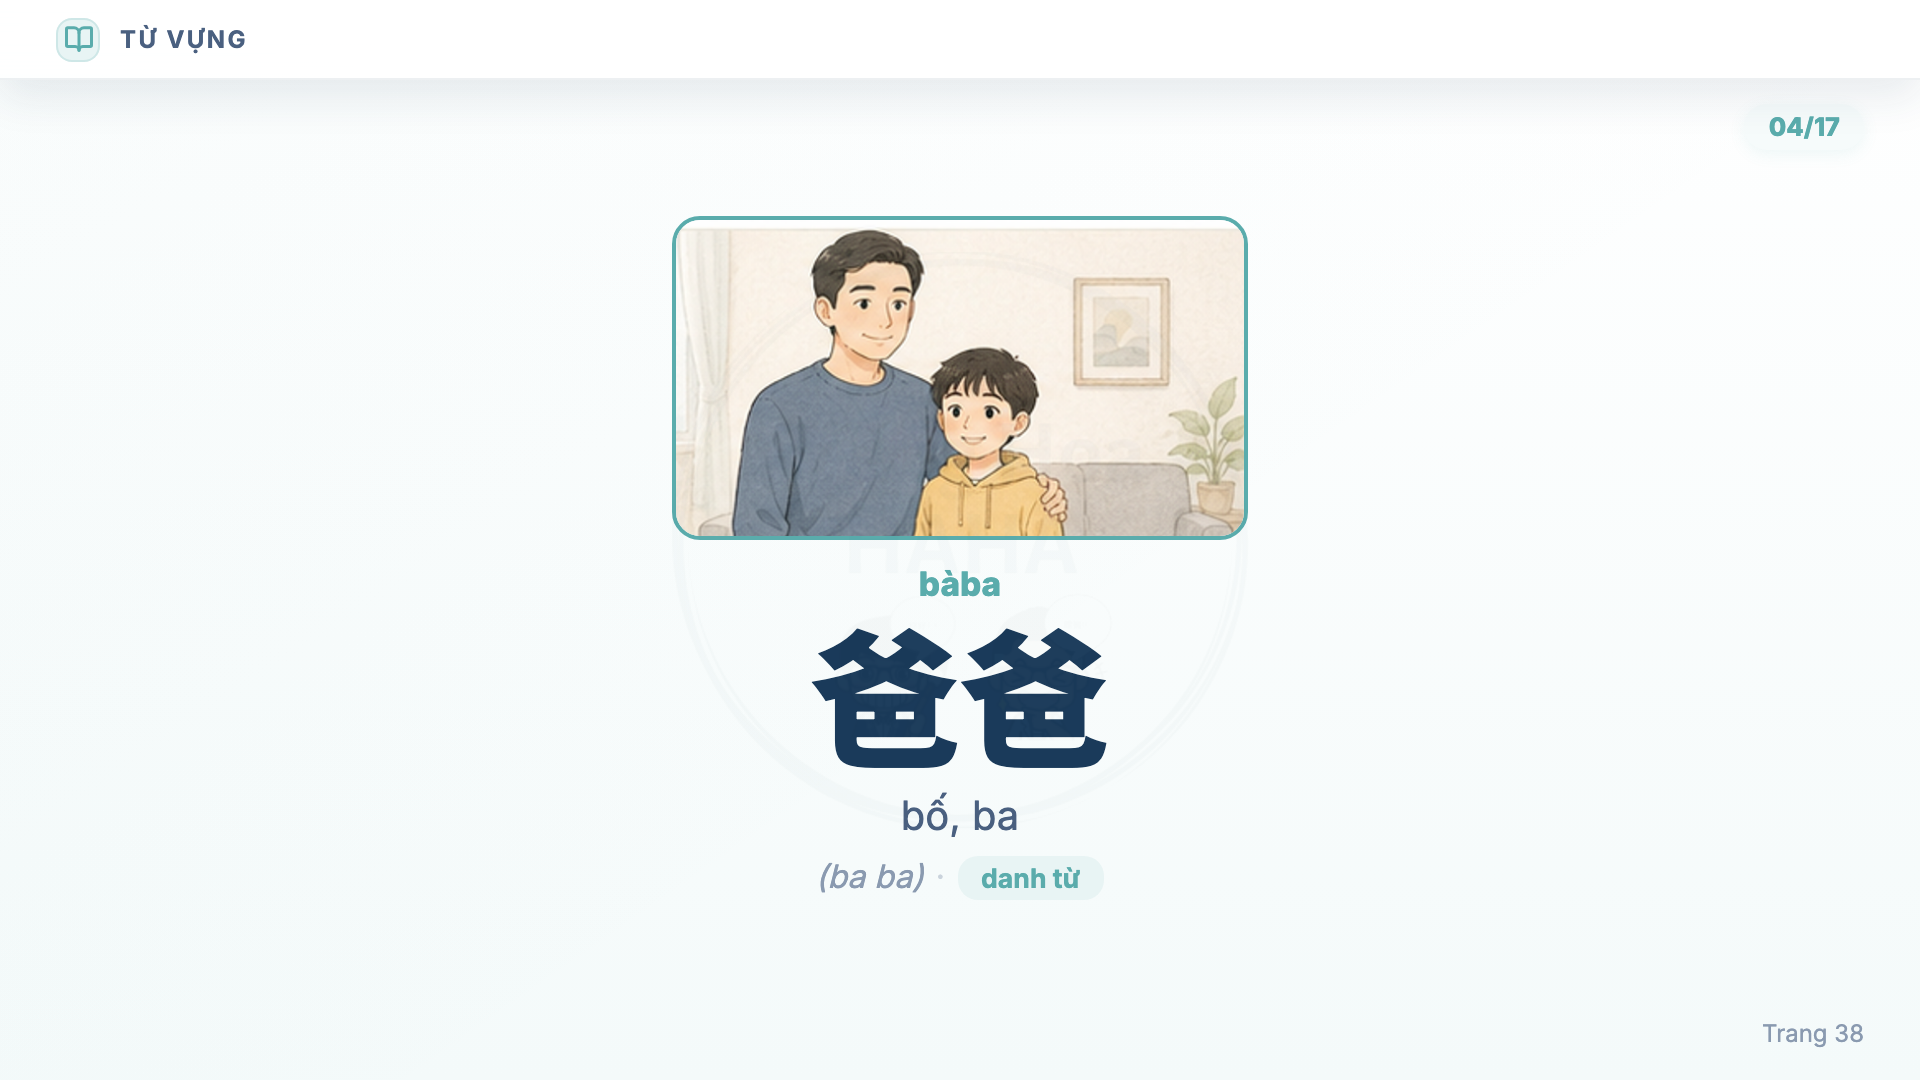
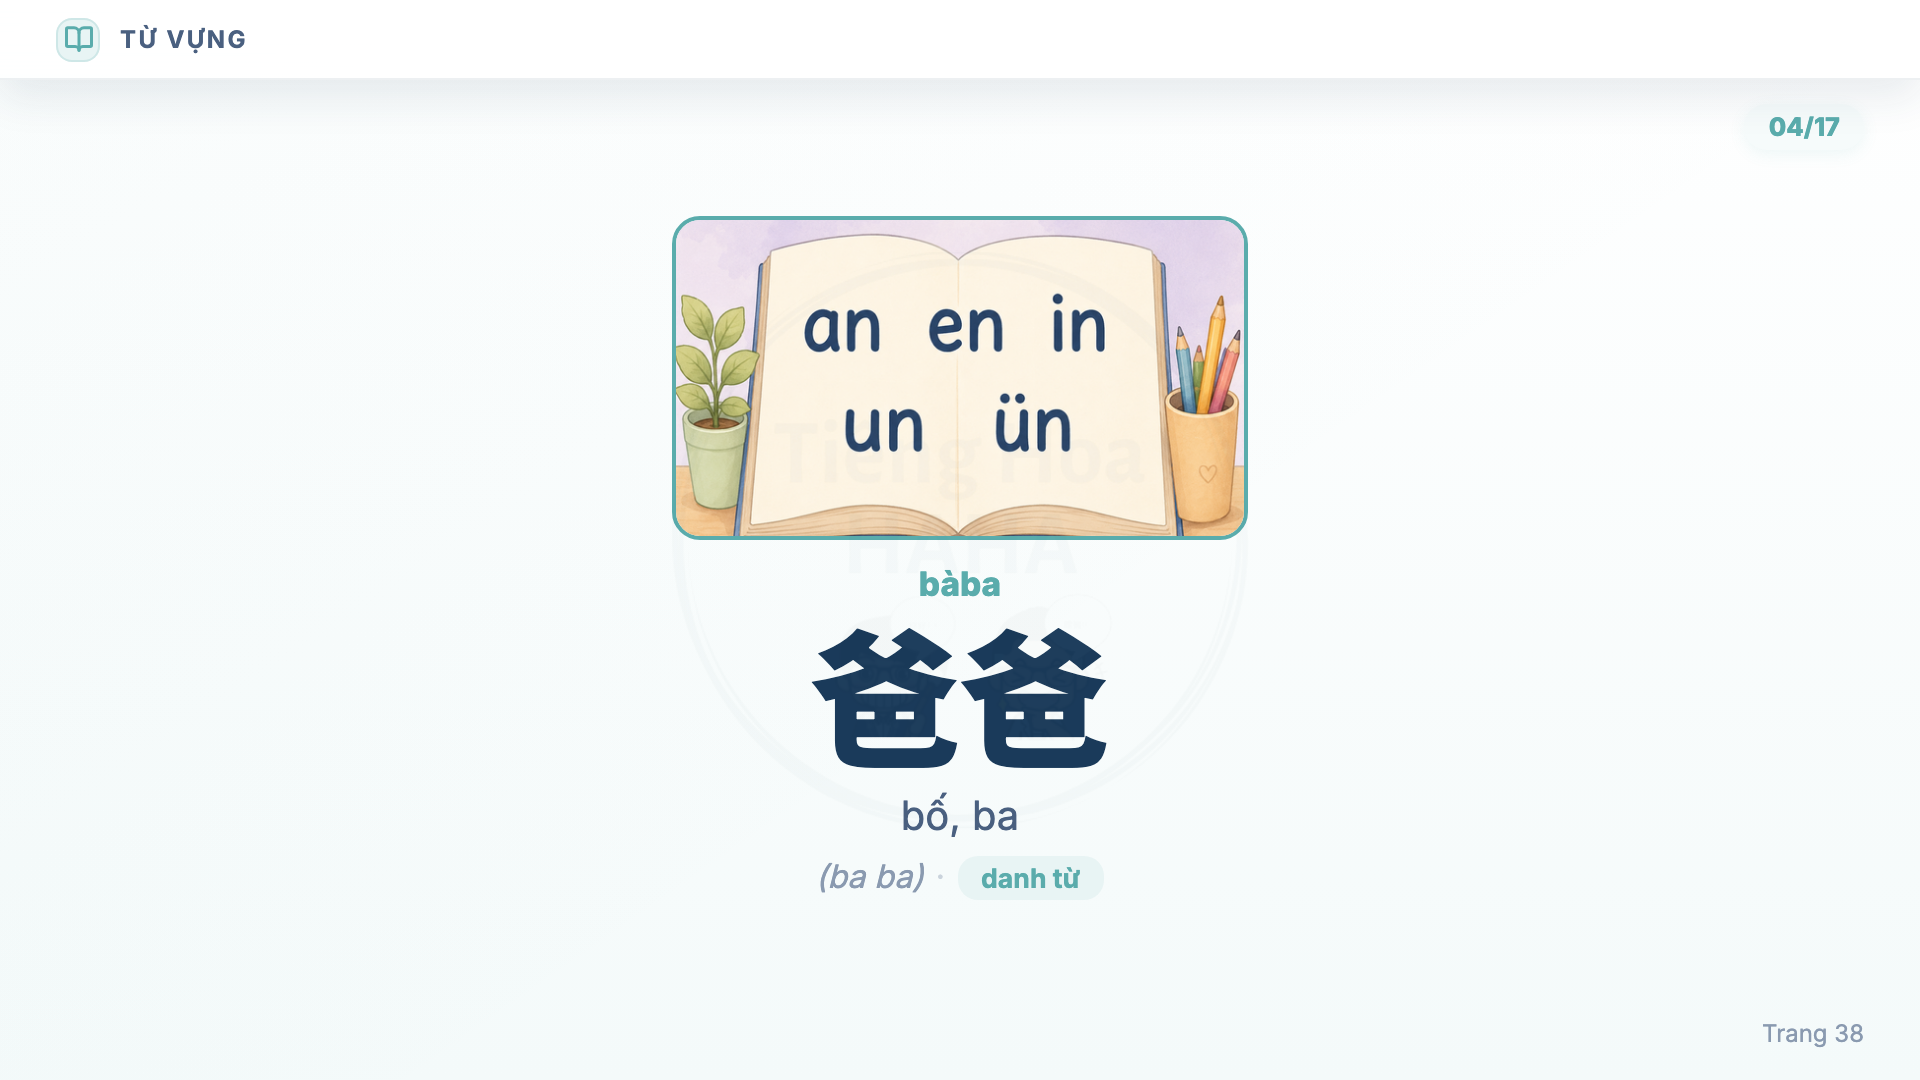
updated pinyin lesson 4 and 5 images and slide layout

Changed region(s): [[0.3438, 0.1833, 0.6562, 0.5194]]

diff --git a/output/pinyin/pinyin-05/slides/index.html b/output/pinyin/pinyin-05/slides/index.html
@@ -40,24 +40,24 @@ body.presenting .thumb-number,body.presenting .thumb-name{color:rgba(255,255,255
 </style>
 </head>
 <body>
-<div class="header"><h1>Pinyin Bài 5</h1><div class="subtitle">54 slides · Press <strong>F</strong> for presentation mode</div></div>
+<div class="header"><h1>Pinyin Bài 5</h1><div class="subtitle">56 slides · Press <strong>F</strong> for presentation mode</div></div>
 <aside class="thumb-sidebar" id="thumbSidebar" aria-label="Danh sách slide">
-  <div class="thumb-head"><div class="thumb-title">Mục lục</div><div class="thumb-total">54</div></div>
+  <div class="thumb-head"><div class="thumb-title">Mục lục</div><div class="thumb-total">56</div></div>
   <div class="thumb-list" id="thumbList"></div>
 </aside>
 <div class="stage" id="stage"><div class="slide-surface" id="slideSurface"><iframe id="slideFrame" src="01-cover.html"></iframe><canvas id="drawCanvas"></canvas><a class="stage-video-link" id="stageVideoLink" href="#" target="_blank" rel="noopener noreferrer" aria-label="Mở video viết chữ"><svg viewBox="0 0 24 24" aria-hidden="true"><path d="M8 5v14l11-7z"></path></svg></a></div></div>
 <div class="controls" id="controls">
-  <button class="btn" onclick="prev()">← Prev</button><span class="counter" id="counter">1 / 54</span><button class="btn" onclick="next()">Next →</button>
+  <button class="btn" onclick="prev()">← Prev</button><span class="counter" id="counter">1 / 56</span><button class="btn" onclick="next()">Next →</button>
   <div class="separator"></div><button class="btn secondary" onclick="undo()">↩ Undo</button><span class="tool-group"><button class="btn secondary" id="drawBtn" onclick="toggleToolMenu('drawMenu')"><span id="drawLabel">Draw</span> ▾</button><span class="tool-menu" id="drawMenu"><button class="btn" id="penBtn" onclick="togglePen()">Pen</button><button class="btn" id="highBtn" onclick="toggleHighlighter()">Highlighter</button></span></span>
   <span class="tool-group"><button class="btn secondary" id="colorBtn" onclick="toggleToolMenu('colorMenu')"><span class="ink-chip" id="inkChip" style="background:#1A3A5A"></span> Ink ▾</button><span class="tool-menu color-menu" id="colorMenu"><button class="color-option swatch" data-color="#E04040" onclick="pickColor(this)"><span class="color-dot" style="background:#E04040"></span>Đỏ</button><button class="color-option swatch selected" data-color="#1A3A5A" onclick="pickColor(this)"><span class="color-dot" style="background:#1A3A5A"></span>Xanh đậm</button><button class="color-option swatch" data-color="#5AACAC" onclick="pickColor(this)"><span class="color-dot" style="background:#5AACAC"></span>Teal</button><button class="color-option swatch" data-color="#F5A623" onclick="pickColor(this)"><span class="color-dot" style="background:#F5A623"></span>Vàng</button></span></span>
   <span class="tool-group"><button class="btn secondary" id="shapeBtn" onclick="toggleToolMenu('shapeMenu')"><span id="shapeLabel">Shape</span> ▾</button><span class="tool-menu" id="shapeMenu"><button class="btn" id="lineBtn" onclick="toggleShape('line')">Line</button><button class="btn" id="circleBtn" onclick="toggleShape('circle')">Circle</button><button class="btn" id="rectBtn" onclick="toggleShape('rect')">Box</button></span></span><span class="eraser-wrap"><button class="btn secondary" id="eraseBtn" onclick="toggleEraserMenu('eraserMenu')">Eraser ▾</button><span class="eraser-menu" id="eraserMenu"><button class="btn" id="pixelEraserBtn" onclick="setEraser('pixel')">Pixel</button><button class="btn" id="objectEraserBtn" onclick="setEraser('object')">Object</button></span></span><span class="tool-group"><button class="btn secondary" id="textBtn" onclick="toggleToolMenu('textMenu')">Text ▾</button><span class="tool-menu text-menu" id="textMenu"><button class="btn" id="textAddBtn" onclick="toggleText()">Add text</button><button class="text-color active" style="background:#000" data-text-color="#000000" onclick="pickTextColor(this)" title="Black"></button><button class="text-color" style="background:#1A5BFF" data-text-color="#1A5BFF" onclick="pickTextColor(this)" title="Blue"></button><button class="text-color" style="background:#E04040" data-text-color="#E04040" onclick="pickTextColor(this)" title="Red"></button><select class="text-size" onchange="setTextSize(this.value)" title="Text size"><option value="20">20</option><option value="24" selected>24</option><option value="30">30</option><option value="36">36</option><option value="44">44</option><option value="56">56</option></select></span></span><button class="btn danger" onclick="clearSlide()">Clear</button>
   <div class="separator"></div><button class="btn download" onclick="exportPDF()">📥 PDF</button><button class="btn" onclick="enterPresent()">▶ Present</button>
 </div>
 <div class="float-toolbar">
-  <button class="btn" onclick="prev()">←</button><span class="counter" id="counterFloat">1 / 54</span><button class="btn" onclick="next()">→</button>
+  <button class="btn" onclick="prev()">←</button><span class="counter" id="counterFloat">1 / 56</span><button class="btn" onclick="next()">→</button>
   <div class="separator"></div><button class="btn" onclick="undo()">↩</button><span class="tool-group"><button class="btn" id="drawBtnFloat" onclick="toggleToolMenu('drawMenuFloat')"><span id="drawLabelFloat">Draw</span> ▾</button><span class="tool-menu" id="drawMenuFloat"><button class="btn" id="penBtnFloat" onclick="togglePen()">Pen</button><button class="btn" id="highBtnFloat" onclick="toggleHighlighter()">Highlighter</button></span></span><span class="tool-group"><button class="btn" id="colorBtnFloat" onclick="toggleToolMenu('colorMenuFloat')"><span class="ink-chip" id="inkChipFloat" style="background:#1A3A5A"></span> Ink ▾</button><span class="tool-menu color-menu" id="colorMenuFloat"><button class="color-option swatch" data-color="#E04040" onclick="pickColor(this)"><span class="color-dot" style="background:#E04040"></span>Đỏ</button><button class="color-option swatch selected" data-color="#1A3A5A" onclick="pickColor(this)"><span class="color-dot" style="background:#1A3A5A"></span>Xanh đậm</button><button class="color-option swatch" data-color="#5AACAC" onclick="pickColor(this)"><span class="color-dot" style="background:#5AACAC"></span>Teal</button><button class="color-option swatch" data-color="#F5A623" onclick="pickColor(this)"><span class="color-dot" style="background:#F5A623"></span>Vàng</button></span></span><span class="tool-group"><button class="btn" id="shapeBtnFloat" onclick="toggleToolMenu('shapeMenuFloat')"><span id="shapeLabelFloat">Shape</span> ▾</button><span class="tool-menu" id="shapeMenuFloat"><button class="btn" id="lineBtnFloat" onclick="toggleShape('line')">Line</button><button class="btn" id="circleBtnFloat" onclick="toggleShape('circle')">Circle</button><button class="btn" id="rectBtnFloat" onclick="toggleShape('rect')">Box</button></span></span><span class="eraser-wrap"><button class="btn" id="eraseBtnFloat" onclick="toggleEraserMenu('eraserMenuFloat')">Eraser ▾</button><span class="eraser-menu" id="eraserMenuFloat"><button class="btn" id="pixelEraserBtnFloat" onclick="setEraser('pixel')">Pixel</button><button class="btn" id="objectEraserBtnFloat" onclick="setEraser('object')">Object</button></span></span><span class="tool-group"><button class="btn" id="textBtnFloat" onclick="toggleToolMenu('textMenuFloat')">Text ▾</button><span class="tool-menu text-menu" id="textMenuFloat"><button class="btn" id="textAddBtnFloat" onclick="toggleText()">Add text</button><button class="text-color active" style="background:#000" data-text-color="#000000" onclick="pickTextColor(this)" title="Black"></button><button class="text-color" style="background:#1A5BFF" data-text-color="#1A5BFF" onclick="pickTextColor(this)" title="Blue"></button><button class="text-color" style="background:#E04040" data-text-color="#E04040" onclick="pickTextColor(this)" title="Red"></button><select class="text-size" onchange="setTextSize(this.value)" title="Text size"><option value="20">20</option><option value="24" selected>24</option><option value="30">30</option><option value="36">36</option><option value="44">44</option><option value="56">56</option></select></span></span><button class="btn danger" onclick="clearSlide()">✕</button><button class="btn download" onclick="exportPDF()">PDF</button><button class="btn secondary" onclick="exitPresent()">Esc</button>
 </div>
-<div class="export-overlay" id="exportOverlay"><div class="export-box"><h3 id="exportTitle">Exporting PDF...</h3><p id="exportStatus">Rendering slide 1 / 54</p><div class="export-progress"><div class="export-progress-bar" id="exportBar"></div></div><p style="margin-top:10px;font-size:11px;color:#B0BEC5">Rendering live from slides — always up to date</p><button class="btn secondary export-close" id="exportClose" onclick="hideExportOverlay()">Close</button></div></div>
+<div class="export-overlay" id="exportOverlay"><div class="export-box"><h3 id="exportTitle">Exporting PDF...</h3><p id="exportStatus">Rendering slide 1 / 56</p><div class="export-progress"><div class="export-progress-bar" id="exportBar"></div></div><p style="margin-top:10px;font-size:11px;color:#B0BEC5">Rendering live from slides — always up to date</p><button class="btn secondary export-close" id="exportClose" onclick="hideExportOverlay()">Close</button></div></div>
 <script>
 const MANIFEST = [
   "01-cover.html",
@@ -83,37 +83,39 @@ const MANIFEST = [
   "21-practice-vocabulary-1a.html",
   "22-practice-vocabulary-1b.html",
   "23-divider-rule.html",
-  "24-rule-rule-l5-jqx-un-umlaut.html",
-  "25-rule-rule-l5-jqx-un-umlaut-examples.html",
-  "26-divider-vocabulary-2.html",
-  "27-vocabulary-2.html",
-  "28-flash-v009-junren.html",
-  "29-flash-v010-qunzi.html",
-  "30-flash-v011-peixun.html",
-  "31-practice-vocabulary-2.html",
-  "32-divider-finals-2.html",
-  "33-finals-2.html",
-  "34-chart-2-1.html",
-  "35-chart-2-2.html",
-  "36-chart-2-3.html",
-  "37-practice-finals-2.html",
-  "38-divider-vocabulary-3.html",
-  "39-vocabulary-3.html",
-  "40-flash-v012-tang.html",
-  "41-flash-v013-zang.html",
-  "42-flash-v014-teng.html",
-  "43-flash-v015-leng.html",
-  "44-flash-v016-mingzi.html",
-  "45-flash-v017-ting.html",
-  "46-flash-v018-long.html",
-  "47-flash-v019-chenggong.html",
-  "48-practice-vocabulary-3a.html",
-  "49-practice-vocabulary-3b.html",
-  "50-divider-review-final.html",
-  "51-review-listening-choice.html",
-  "52-review-fill-blank.html",
-  "53-review-vocabulary-match.html",
-  "54-closing.html"
+  "24-rule-l5-jqx-un-jun.html",
+  "25-rule-l5-jqx-un-qun.html",
+  "26-rule-l5-jqx-un-xun.html",
+  "27-rule-rule-l5-jqx-un-umlaut-examples.html",
+  "28-divider-vocabulary-2.html",
+  "29-vocabulary-2.html",
+  "30-flash-v009-junren.html",
+  "31-flash-v010-qunzi.html",
+  "32-flash-v011-peixun.html",
+  "33-practice-vocabulary-2.html",
+  "34-divider-finals-2.html",
+  "35-finals-2.html",
+  "36-chart-2-1.html",
+  "37-chart-2-2.html",
+  "38-chart-2-3.html",
+  "39-practice-finals-2.html",
+  "40-divider-vocabulary-3.html",
+  "41-vocabulary-3.html",
+  "42-flash-v012-tang.html",
+  "43-flash-v013-zang.html",
+  "44-flash-v014-teng.html",
+  "45-flash-v015-leng.html",
+  "46-flash-v016-mingzi.html",
+  "47-flash-v017-ting.html",
+  "48-flash-v018-long.html",
+  "49-flash-v019-chenggong.html",
+  "50-practice-vocabulary-3a.html",
+  "51-practice-vocabulary-3b.html",
+  "52-divider-review-final.html",
+  "53-review-listening-choice.html",
+  "54-review-fill-blank.html",
+  "55-review-vocabulary-match.html",
+  "56-closing.html"
 ];
 let current=0, penActive=false, highlighterActive=false, eraserMode=null, textMode=false, shapeMode=null, drawing=false, penColor='#1A3A5A', textColor='#000000', textSize=24, activeTextEl=null;
 let shapeStart=null, shapeSnapshot=null;

diff --git a/output/pinyin/pinyin-05/slides/24-rule-l5-jqx-un-jun.html b/output/pinyin/pinyin-05/slides/24-rule-l5-jqx-un-jun.html
@@ -1,0 +1,12 @@
+<!DOCTYPE html><html lang="vi"><head><meta charset="UTF-8"><meta name="viewport" content="width=960,height=540"><title>jun · Quy tắc j/q/x + ün</title><link href="https://fonts.googleapis.com/css2?family=Inter:wght@400;500;600;700;800;900&family=Noto+Sans+SC:wght@400;700;900&display=swap" rel="stylesheet"><script src="https://unpkg.com/lucide@0.460.0/dist/umd/lucide.min.js"></script><link rel="stylesheet" href="assets/slide-base.css"><style>
+.title-xl{font-size:34px;line-height:1.12;font-weight:900;color:#1A3A5A}
+.rule-flash-wrap{position:absolute;left:60px;right:60px;top:82px;bottom:44px;display:flex;flex-direction:column;align-items:center;justify-content:center;text-align:center}
+.rule-flash-wrap .title-xl{margin-bottom:22px}
+.rule-flash-card{width:430px;height:280px;border-radius:26px;background:#fff;border:1px solid rgba(90,172,172,.18);box-shadow:0 14px 38px rgba(90,172,172,.16);display:flex;flex-direction:column;align-items:center;justify-content:center;cursor:pointer;position:relative;overflow:hidden}
+.rule-flash-card:before{content:"";position:absolute;left:0;top:0;bottom:0;width:58px;background:linear-gradient(180deg,#D4EDED,#E8F4F4)}
+.rule-flash-token{position:relative;z-index:1;display:flex;align-items:flex-end;justify-content:center;gap:1px;font-size:72px;line-height:1;font-weight:950;color:#7C6BC8}
+.u-letter{position:relative;display:inline-block}
+.umlaut{position:absolute;left:50%;top:-4px;transform:translateX(-50%);display:flex;gap:9px;transition:opacity .28s ease,transform .28s ease}
+.umlaut i{display:block;width:8px;height:8px;border-radius:50%;background:#7C6BC8}
+.umlaut.revealed{opacity:0;transform:translate(-50%,-12px) scale(.4)}
+</style></head><body><div class="slide"><div class="menu-bar"><span class="menu-icon"><i data-lucide="wand-sparkles"></i></span><span class="section-label">Quy tắc viết pinyin</span></div><div class="rule-flash-wrap"><div class="title-xl">j/q/x + ün: viết bỏ hai chấm</div><div class="rule-flash-card"><div class="rule-flash-token"><span>j</span><span class="u-letter">u<span class="umlaut" data-reveal-step="1"><i></i><i></i></span></span><span>n</span></div></div></div></div><script src="assets/slide-base.js"></script></body></html>

diff --git a/output/pinyin/pinyin-05/slides/25-rule-l5-jqx-un-qun.html b/output/pinyin/pinyin-05/slides/25-rule-l5-jqx-un-qun.html
@@ -1,0 +1,12 @@
+<!DOCTYPE html><html lang="vi"><head><meta charset="UTF-8"><meta name="viewport" content="width=960,height=540"><title>qun · Quy tắc j/q/x + ün</title><link href="https://fonts.googleapis.com/css2?family=Inter:wght@400;500;600;700;800;900&family=Noto+Sans+SC:wght@400;700;900&display=swap" rel="stylesheet"><script src="https://unpkg.com/lucide@0.460.0/dist/umd/lucide.min.js"></script><link rel="stylesheet" href="assets/slide-base.css"><style>
+.title-xl{font-size:34px;line-height:1.12;font-weight:900;color:#1A3A5A}
+.rule-flash-wrap{position:absolute;left:60px;right:60px;top:82px;bottom:44px;display:flex;flex-direction:column;align-items:center;justify-content:center;text-align:center}
+.rule-flash-wrap .title-xl{margin-bottom:22px}
+.rule-flash-card{width:430px;height:280px;border-radius:26px;background:#fff;border:1px solid rgba(90,172,172,.18);box-shadow:0 14px 38px rgba(90,172,172,.16);display:flex;flex-direction:column;align-items:center;justify-content:center;cursor:pointer;position:relative;overflow:hidden}
+.rule-flash-card:before{content:"";position:absolute;left:0;top:0;bottom:0;width:58px;background:linear-gradient(180deg,#D4EDED,#E8F4F4)}
+.rule-flash-token{position:relative;z-index:1;display:flex;align-items:flex-end;justify-content:center;gap:1px;font-size:72px;line-height:1;font-weight:950;color:#7C6BC8}
+.u-letter{position:relative;display:inline-block}
+.umlaut{position:absolute;left:50%;top:-4px;transform:translateX(-50%);display:flex;gap:9px;transition:opacity .28s ease,transform .28s ease}
+.umlaut i{display:block;width:8px;height:8px;border-radius:50%;background:#7C6BC8}
+.umlaut.revealed{opacity:0;transform:translate(-50%,-12px) scale(.4)}
+</style></head><body><div class="slide"><div class="menu-bar"><span class="menu-icon"><i data-lucide="wand-sparkles"></i></span><span class="section-label">Quy tắc viết pinyin</span></div><div class="rule-flash-wrap"><div class="title-xl">j/q/x + ün: viết bỏ hai chấm</div><div class="rule-flash-card"><div class="rule-flash-token"><span>q</span><span class="u-letter">u<span class="umlaut" data-reveal-step="1"><i></i><i></i></span></span><span>n</span></div></div></div></div><script src="assets/slide-base.js"></script></body></html>

diff --git a/output/pinyin/pinyin-05/slides/26-rule-l5-jqx-un-xun.html b/output/pinyin/pinyin-05/slides/26-rule-l5-jqx-un-xun.html
@@ -1,0 +1,12 @@
+<!DOCTYPE html><html lang="vi"><head><meta charset="UTF-8"><meta name="viewport" content="width=960,height=540"><title>xun · Quy tắc j/q/x + ün</title><link href="https://fonts.googleapis.com/css2?family=Inter:wght@400;500;600;700;800;900&family=Noto+Sans+SC:wght@400;700;900&display=swap" rel="stylesheet"><script src="https://unpkg.com/lucide@0.460.0/dist/umd/lucide.min.js"></script><link rel="stylesheet" href="assets/slide-base.css"><style>
+.title-xl{font-size:34px;line-height:1.12;font-weight:900;color:#1A3A5A}
+.rule-flash-wrap{position:absolute;left:60px;right:60px;top:82px;bottom:44px;display:flex;flex-direction:column;align-items:center;justify-content:center;text-align:center}
+.rule-flash-wrap .title-xl{margin-bottom:22px}
+.rule-flash-card{width:430px;height:280px;border-radius:26px;background:#fff;border:1px solid rgba(90,172,172,.18);box-shadow:0 14px 38px rgba(90,172,172,.16);display:flex;flex-direction:column;align-items:center;justify-content:center;cursor:pointer;position:relative;overflow:hidden}
+.rule-flash-card:before{content:"";position:absolute;left:0;top:0;bottom:0;width:58px;background:linear-gradient(180deg,#D4EDED,#E8F4F4)}
+.rule-flash-token{position:relative;z-index:1;display:flex;align-items:flex-end;justify-content:center;gap:1px;font-size:72px;line-height:1;font-weight:950;color:#7C6BC8}
+.u-letter{position:relative;display:inline-block}
+.umlaut{position:absolute;left:50%;top:-4px;transform:translateX(-50%);display:flex;gap:9px;transition:opacity .28s ease,transform .28s ease}
+.umlaut i{display:block;width:8px;height:8px;border-radius:50%;background:#7C6BC8}
+.umlaut.revealed{opacity:0;transform:translate(-50%,-12px) scale(.4)}
+</style></head><body><div class="slide"><div class="menu-bar"><span class="menu-icon"><i data-lucide="wand-sparkles"></i></span><span class="section-label">Quy tắc viết pinyin</span></div><div class="rule-flash-wrap"><div class="title-xl">j/q/x + ün: viết bỏ hai chấm</div><div class="rule-flash-card"><div class="rule-flash-token"><span>x</span><span class="u-letter">u<span class="umlaut" data-reveal-step="1"><i></i><i></i></span></span><span>n</span></div></div></div></div><script src="assets/slide-base.js"></script></body></html>
